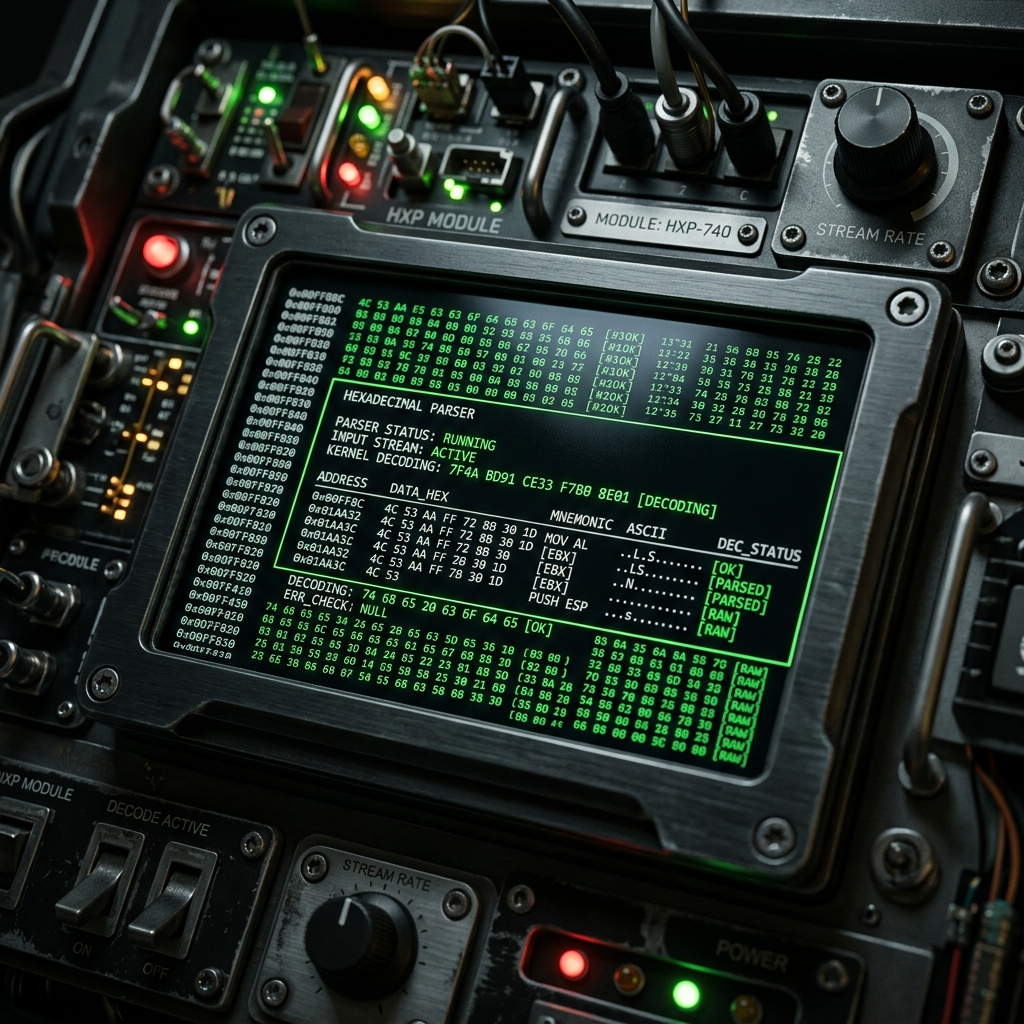
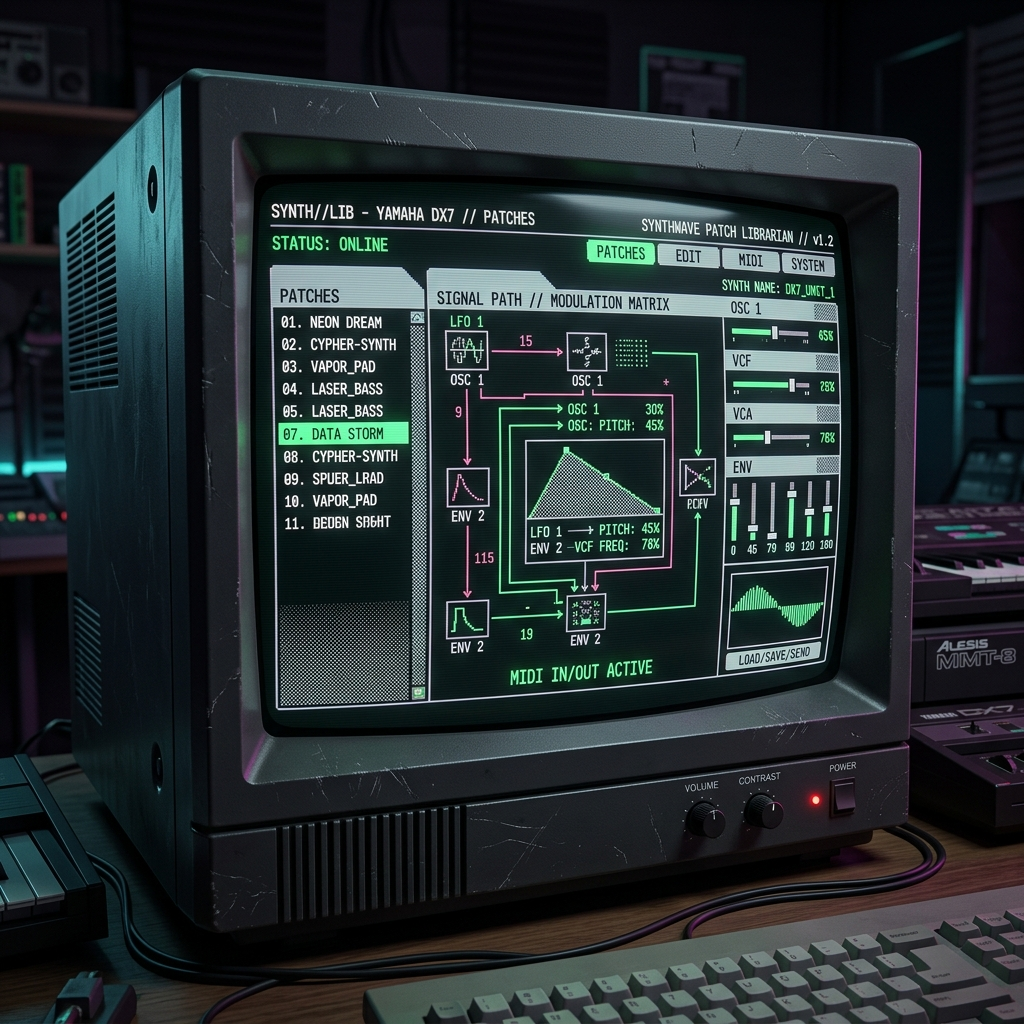
finished

diff --git a/templates/landing.html b/templates/landing.html
@@ -4,7 +4,23 @@
 <head>
     <meta charset="UTF-8">
     <meta name="viewport" content="width=device-width, initial-scale=1.0">
-    <title>knob.monster</title>
+    <title>knob.monster | The iCloud for Vintage Synthesizers</title>
+    <meta name="description" content="Back up, search, and recall soundbanks from vintage DX7, Juno-106, and Korg M1 synthesizers. Read presets directly from hardware memory using browser-native Web MIDI.">
+    <meta name="keywords" content="sysex librarian, dx7 editor, juno 106 patch editor, korg m1 backup, web midi sysex, synth bank manager">
+    
+    <!-- Open Graph / Facebook -->
+    <meta property="og:type" content="website">
+    <meta property="og:url" content="https://knob.monster/">
+    <meta property="og:title" content="knob.monster | The iCloud for Vintage Synthesizers">
+    <meta property="og:description" content="Back up, search, and recall soundbanks from vintage DX7, Juno-106, and Korg M1 synthesizers. Read presets directly from hardware memory using browser-native Web MIDI.">
+    <meta property="og:image" content="https://knob.monster/static/index_extraction.png">
+
+    <!-- Twitter -->
+    <meta property="twitter:card" content="summary_large_image">
+    <meta property="twitter:url" content="https://knob.monster/">
+    <meta property="twitter:title" content="knob.monster | The iCloud for Vintage Synthesizers">
+    <meta property="twitter:description" content="Back up, search, and recall soundbanks from vintage DX7, Juno-106, and Korg M1 synthesizers. Read presets directly from hardware memory using browser-native Web MIDI.">
+    <meta property="twitter:image" content="https://knob.monster/static/index_extraction.png">
 
     <!-- Favicon / Shortcut Icon -->
     <link rel="shortcut icon" href="/static/logo.png" type="image/png">
@@ -171,27 +187,24 @@
             Requires Standard USB-to-MIDI Cable & Chrome/Edge Browser
         </p>
 
-        <!-- Social Proof Stats Banner -->
+        <!-- Real Technical Specs Banner -->
         <div
             class="border-t border-zinc-900 py-10 mt-24 max-w-4xl mx-auto grid grid-cols-2 md:grid-cols-4 gap-8 text-center">
             <div>
-                <span class="block text-4xl font-lcd text-[#fb526b] tracking-wider leading-none">3,400+</span>
-                <span class="text-[10px] font-pixel uppercase text-zinc-500 mt-1 block tracking-wider">Producers</span>
+                <span class="block text-4xl font-lcd text-[#fb526b] tracking-wider leading-none">3+</span>
+                <span class="text-[10px] font-pixel uppercase text-zinc-500 mt-1 block tracking-wider">SYNTH MODELS</span>
             </div>
             <div>
-                <span class="block text-4xl font-lcd text-[#fb526b] tracking-wider leading-none">125,000+</span>
-                <span class="text-[10px] font-pixel uppercase text-zinc-500 mt-1 block tracking-wider">Patches
-                    Saved</span>
+                <span class="block text-4xl font-lcd text-[#fb526b] tracking-wider leading-none">32</span>
+                <span class="text-[10px] font-pixel uppercase text-zinc-500 mt-1 block tracking-wider">PATCHES/DX7 BANK</span>
             </div>
             <div>
                 <span class="block text-4xl font-lcd text-[#fb526b] tracking-wider leading-none">100%</span>
-                <span class="text-[10px] font-pixel uppercase text-zinc-500 mt-1 block tracking-wider">Browser
-                    Native</span>
+                <span class="text-[10px] font-pixel uppercase text-zinc-500 mt-1 block tracking-wider">BROWSER NATIVE</span>
             </div>
             <div>
-                <span class="block text-4xl font-lcd text-[#fb526b] tracking-wider leading-none">0 DRIVERS</span>
-                <span class="text-[10px] font-pixel uppercase text-zinc-500 mt-1 block tracking-wider">No
-                    Installation</span>
+                <span class="block text-4xl font-lcd text-[#fb526b] tracking-wider leading-none">0</span>
+                <span class="text-[10px] font-pixel uppercase text-zinc-500 mt-1 block tracking-wider">INSTALL DRIVERS</span>
             </div>
         </div>
 
@@ -216,21 +229,13 @@
 
             <!-- Right Card: Stylized Dashboard Mockup -->
             <div
-                class="rounded-2xl border border-zinc-900 bg-zinc-950/20 p-4 flex flex-col justify-between shadow-2xl backdrop-blur-md relative overflow-hidden group">
-                <!-- Mac window buttons -->
-                <div class="flex items-center gap-1.5 absolute top-5 left-6 z-20">
-                    <span class="h-2 w-2 rounded-full bg-zinc-800"></span>
-                    <span class="h-2 w-2 rounded-full bg-zinc-800"></span>
-                    <span class="h-2 w-2 rounded-full bg-zinc-800"></span>
+                class="rounded-2xl border border-zinc-900 overflow-hidden bg-zinc-950/20 flex flex-col justify-between shadow-2xl backdrop-blur-md group">
+                <div class="p-6">
+                    <span class="text-[10px] font-pixel uppercase text-zinc-500 tracking-wider">dashboard preview</span>
+                    <h3 class="text-base font-pixel uppercase text-white mt-1.5 tracking-wide">Knob Monster Dashboard Interface</h3>
+                    <p class="text-xs text-zinc-400 mt-2 leading-relaxed font-normal">Organize your vintage collection, query presets, and review active transmission hex logs in our retro-brutalist dashboard.</p>
                 </div>
-
-                <div
-                    class="w-full h-8 rounded border border-zinc-900 bg-zinc-900/30 mb-3 flex items-center justify-center flex-shrink-0">
-                    <span class="text-[10px] font-pixel text-zinc-550 uppercase tracking-widest">dashboard preview</span>
-                </div>
-
-                <!-- Dashboard Preview Image -->
-                <div class="relative overflow-hidden aspect-[4/3] w-full border border-zinc-900 bg-black rounded-xl">
+                <div class="relative overflow-hidden aspect-[4/3] w-full border-t border-zinc-900 bg-black">
                     <img src="/static/index_extraction.png" alt="Knob Monster Dashboard Interface"
                         class="w-full h-full object-cover group-hover:scale-[1.02] transition-transform duration-500 dithered">
                 </div>

diff --git a/main.py b/main.py
@@ -78,7 +78,11 @@ async def startup_event():
         if os.path.exists(handshake_src):
             shutil.copy(handshake_src, os.path.join(dest_dir, "midi_handshake.png"))
 
-        extraction_src = os.path.join(src_dir, "index_extraction_1780240720083.png")
+        extraction_src = os.path.join(src_dir, "dashboard_preview_1780269292608.png")
+        if not os.path.exists(extraction_src):
+            extraction_src = os.path.join(src_dir, "media__1780266951702.png")
+        if not os.path.exists(extraction_src):
+            extraction_src = os.path.join(src_dir, "index_extraction_1780240720083.png")
         if os.path.exists(extraction_src):
             shutil.copy(extraction_src, os.path.join(dest_dir, "index_extraction.png"))
 
